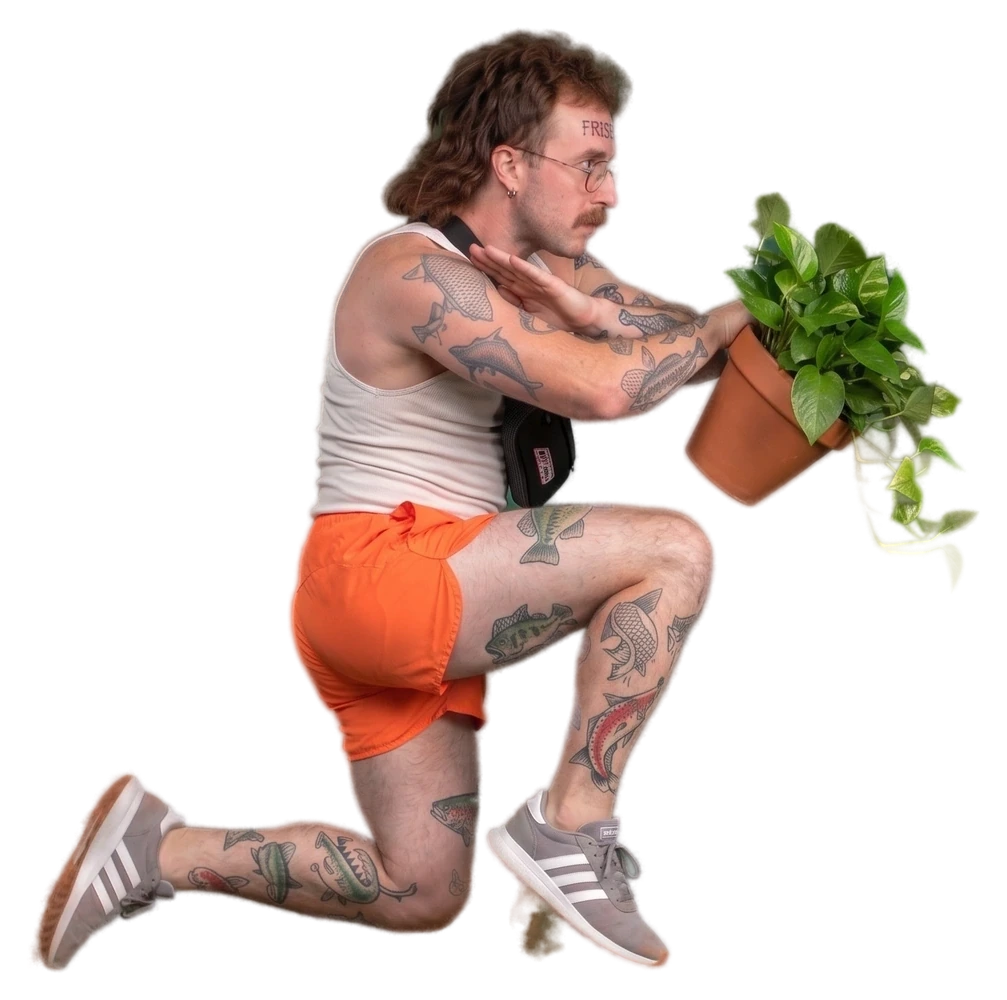
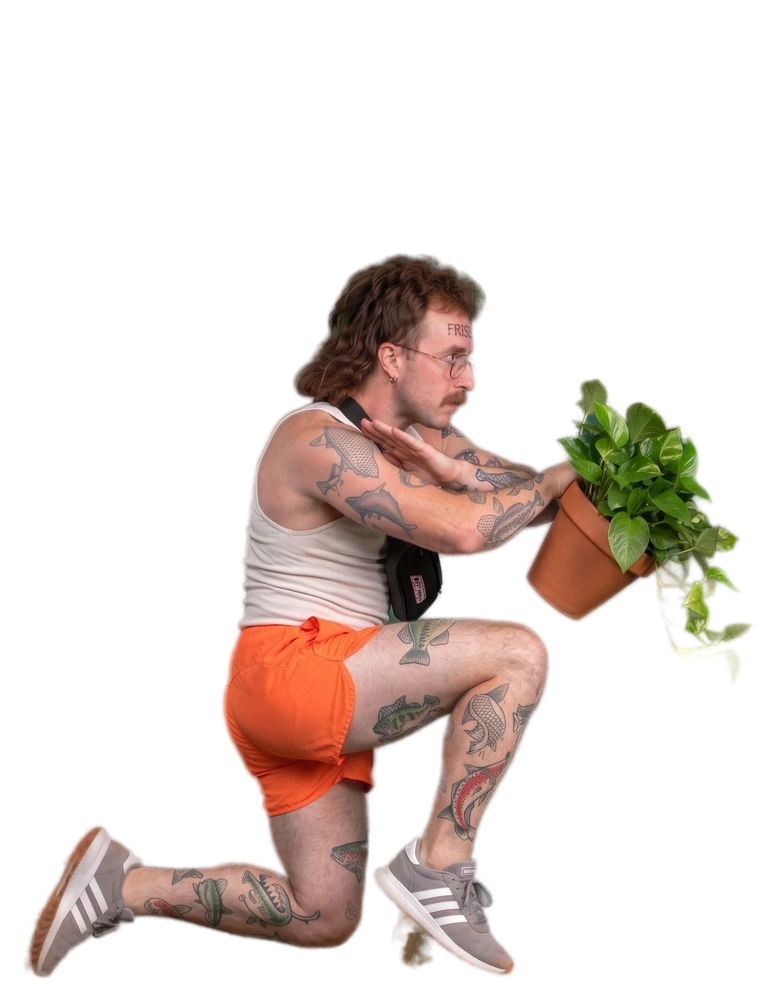
Pro-fight sprint: hit reactions, pace, controls, techno HUD, BIG batch, true scale
Team-wide quality sprint after director review:

- HIT REACTIONS (the core ask): EVERY landed hit now swaps the victim
  to their HURT pose with a red-hot flash (light 150ms / heavy 300ms /
  specials hold through stun) via one disciplined guard-aware restore -
  no stuck poses; light hits also flinch-lock the victim 140ms.
  FRISBEE reacts via class flash until a hurt photo is supplied.
- PACE: player basics wind up faster (195ms), recover faster (200ms),
  cooldown 185ms; landed basic opens a 250ms CANCEL window - a medium
  fired inside it skips its windup (real combo chaining, player only);
  dynamic combo clock (hit 1500ms / whiff 900ms).
- CONTROLS: double-tap forward = DASH (afterimage step; next lunge 76ms
  instead of 118); combo HUD now shows LIVE data-driven continuation
  hints with move names.
- TECHNO-TLV HUD: angular clipped health bars with 10% ticks and neon
  edges, angular portraits, chromatic damage numbers, RGB-split glitch
  frame on specials/finishers, scanlines on VS/KO, neon control pads.
- BIG BATCH: 6 new hi-res photos wired (flying kick for air moves,
  lunge for dash attacks, taunt for charge, guard2 for block, hikick +
  punch2 as combo frames); 1 street shot rejected below quality bar;
  b_lunge facing fixed via full-size canon check.
- TRUE SCALE standard: whole FRISBEE set reprocessed anchored to his
  stance - airborne/crouch poses no longer inflate to fill the canvas
  (jump body 668px vs fake 1000); r_jump padded to match; VS pair
[…]

diff --git a/index.html b/index.html
@@ -1153,6 +1153,26 @@ html,body{width:100%;height:100%;background:#000;overflow:hidden;font-family:'Ra
 .wpts{font-family:'Bebas Neue',sans-serif;font-size:clamp(20px,6vw,32px);letter-spacing:2px;color:var(--g);text-shadow:2px 2px 0 #000,0 0 16px rgba(245,197,24,.55);margin-top:clamp(4px,1.4vw,8px);min-height:1em;opacity:0;transform:scale(.7);transition:opacity .4s,transform .4s cubic-bezier(.2,.85,.3,1.4);}
 .wpts.on{opacity:1;transform:scale(1);}
 .wpts .wpx{display:block;font-family:'Heebo',system-ui,sans-serif;font-weight:700;font-size:clamp(9px,2.4vw,12px);letter-spacing:.5px;color:#cdb98a;text-shadow:0 1px 2px #000;margin-top:2px;}
+/* ── TECHNO-TLV (ניאון): sharp arcade layer — additive only, fighter keyframes untouched ── */
+.hpt{position:relative;clip-path:polygon(0 0,100% 0,calc(100% - 7px) 100%,7px 100%);}
+.hpt::after{content:"";position:absolute;inset:0;background:repeating-linear-gradient(90deg,transparent 0 calc(10% - 1px),rgba(0,0,0,.5) calc(10% - 1px) 10%);pointer-events:none;z-index:3;}
+.hs.L .hpt{box-shadow:0 0 9px rgba(0,255,225,.4),inset 0 0 4px rgba(0,255,225,.18);}
+.hs.R .hpt{box-shadow:0 0 9px rgba(255,45,85,.4),inset 0 0 4px rgba(255,45,85,.18);}
+.hs.L .ent{box-shadow:0 0 7px rgba(0,255,225,.3);}
+.hs.R .ent{box-shadow:0 0 7px rgba(255,45,85,.3);}
+.hpo{border:1px solid rgba(0,255,225,.35);clip-path:polygon(8% 0,100% 0,100% 92%,92% 100%,0 100%,0 8%);}
+.hs.R .hpo{border-color:rgba(255,45,85,.35);}
+.dmg{text-shadow:2px 0 0 rgba(255,0,90,.75),-2px 0 0 rgba(0,240,255,.75),0 2px 6px #000 !important;letter-spacing:1px;}
+@keyframes glxA{0%{transform:translate(0,0);filter:none;}25%{transform:translate(-3px,1px);filter:drop-shadow(3px 0 0 rgba(255,0,90,.6)) drop-shadow(-3px 0 0 rgba(0,240,255,.6));}60%{transform:translate(2px,-1px);filter:drop-shadow(-2px 0 0 rgba(255,0,90,.5)) drop-shadow(2px 0 0 rgba(0,240,255,.5));}100%{transform:translate(0,0);filter:none;}}
+.glx{animation:glxA .13s steps(3,end) 1;}
+#SVS::after,.wbg::after{content:"";position:absolute;inset:0;background:repeating-linear-gradient(0deg,transparent 0 3px,rgba(0,0,0,.11) 3px 4px);pointer-events:none;z-index:9;}
+.vhurt .fs img{animation:vhurtF .3s ease-out 1;}
+@keyframes vhurtF{0%{filter:brightness(2) saturate(2.2) drop-shadow(0 0 12px rgba(255,40,40,.85));}100%{filter:none;}}
+.dsh .fs img{filter:brightness(1.35) drop-shadow(-8px 0 6px rgba(0,240,255,.45));}
+.chud-mv .chb{display:inline-block;min-width:15px;text-align:center;margin:0 3px;padding:0 4px;border:1px solid rgba(0,255,225,.5);border-radius:3px;background:rgba(0,40,44,.7);color:#7dfff0;font-family:'Bebas Neue',sans-serif;}
+.chud-mv .chsep{opacity:.5;}
+.dbs,.fbs{border:1px solid rgba(0,255,225,.22)!important;box-shadow:inset 0 0 9px rgba(0,255,225,.10),0 2px 8px rgba(0,0,0,.55)!important;}
+.dC{border-color:rgba(255,45,85,.3)!important;}
 /* ── RETENTION SUITE: rank card, daily streak, achievements, rematch, kb hint ── */
 .prank,.wrank{margin:clamp(4px,1.2vw,7px) auto 0;width:min(86vw,340px);text-align:center;direction:rtl;font-family:'Heebo',system-ui,sans-serif;font-weight:800;font-size:var(--t5);color:#e8d9a8;text-shadow:0 1px 2px #000;}
 .wrank{width:min(80vw,300px);margin-bottom:clamp(6px,1.8vw,10px);color:#cdb98a;font-size:var(--t6);}
@@ -1503,7 +1523,7 @@ html,body{width:100%;height:100%;background:#000;overflow:hidden;font-family:'Ra
      b(BIG.COM): dedicated idle on NON-blue bg.  s(האייקון): full-body idle w/ legs
      (s_f), refreshed kick (s_kick).  y(ישר)/i(T.M.R)/r(השופט): a true finisher pose.
    ════════════════════════════════════════════════════════════════════════════ */
-const IM={b_s:"assets/img/b_s.jpg",b_f:"assets/img/b_f.webp",r_s:"assets/img/r_s.jpg",r_f:"assets/img/r_f.webp",i_s:"assets/img/i_s.jpg",i_f:"assets/img/i_f.webp",i_punch:"assets/img/i_punch.webp",i_kick:"assets/img/i_kick.webp",i_belt:"assets/img/i_belt.webp",b_kick:"assets/img/b_kick.webp",b_chair:"assets/img/b_chair.webp",r_kick:"assets/img/r_kick.webp",r_redcard:"assets/img/r_redcard.webp",y_s:"assets/img/y_s.jpg",y_f:"assets/img/y_f.webp",y_kick:"assets/img/y_kick.webp",y_jump:"assets/img/y_jump.webp",y_flex:"assets/img/y_flex.webp",y_fight:"assets/img/y_fight.webp",y_tire:"assets/img/y_tire.webp",s_s:"assets/img/s_s.jpg",s_f:"assets/img/s_f.webp",s_kick:"assets/img/s_kick.webp",s_cape:"assets/img/s_cape.webp",s_jump:"assets/img/s_jump.webp",i_run:"assets/img/i_run.webp",s_run:"assets/img/s_run.webp",y_run:"assets/img/y_run.webp",s_punch:"assets/img/s_punch.webp",s_smash:"assets/img/s_smash.webp",s_hook:"assets/img/s_hook.webp",r_punch:"assets/img/r_punch.webp",r_hurt:"assets/img/r_hurt.webp",b_run:"assets/img/b_run.webp",b_up:"assets/img/b_up.webp",b_jump:"assets/img/b_jump.webp",b_kk:"assets/img/b_kk.webp",b_punch:"assets/img/b_punch.webp",b_low:"assets/img/b_low.webp",i_jump:"assets/img/i_jump.webp",i_knee:"assets/img/i_knee.webp",i_lowk:"assets/img/i_lowk.webp",i_guard:"assets/img/i_guard.webp",i_point:"assets/img/i_point.webp",r_run:"assets/img/r_run.webp",r_ready:"assets/img/r_ready.webp",r_knee:"assets/img/r_knee.webp",r_spray:"assets/img/r_spray.webp",y_punch:"assets/img/y_punch.webp",y_hurt:"assets/img/y_hurt.webp",y_guard:"assets/img/y_guard.webp",b_hurt:"assets/img/b_hurt.webp",b_ready:"assets/img/b_ready.webp",s_hurt:"assets/img/s_hurt.webp",s_ready:"assets/img/s_ready.webp",s_air:"assets/img/s_air.webp",b_block:"assets/img/b_block.webp",b_jab:"assets/img/b_jab.webp",b_hook:"assets/img/b_hook.webp",r_blkH:"assets/img/r_blkH.webp",r_blkL:"assets/img/r_blkL.webp",f_s:"assets/img/f_s.jpg",f_f:"assets/img/f_f.webp",f_punch:"assets/img/f_punch.webp",f_palm:"assets/img/f_palm.webp",f_kick:"assets/img/f_kick.webp",f_fly:"assets/img/f_fly.webp",f_low:"assets/img/f_low.webp",f_claw:"assets/img/f_claw.webp",f_jump:"assets/img/f_jump.webp",f_knee:"assets/img/f_knee.webp",f_plantj:"assets/img/f_plantj.webp",f_plant:"assets/img/f_plant.webp",f_hero:"assets/img/f_hero.webp",
+const IM={b_s:"assets/img/b_s.jpg",b_f:"assets/img/b_f.webp",r_s:"assets/img/r_s.jpg",r_f:"assets/img/r_f.webp",i_s:"assets/img/i_s.jpg",i_f:"assets/img/i_f.webp",i_punch:"assets/img/i_punch.webp",i_kick:"assets/img/i_kick.webp",i_belt:"assets/img/i_belt.webp",b_kick:"assets/img/b_kick.webp",b_chair:"assets/img/b_chair.webp",r_kick:"assets/img/r_kick.webp",r_redcard:"assets/img/r_redcard.webp",y_s:"assets/img/y_s.jpg",y_f:"assets/img/y_f.webp",y_kick:"assets/img/y_kick.webp",y_jump:"assets/img/y_jump.webp",y_flex:"assets/img/y_flex.webp",y_fight:"assets/img/y_fight.webp",y_tire:"assets/img/y_tire.webp",s_s:"assets/img/s_s.jpg",s_f:"assets/img/s_f.webp",s_kick:"assets/img/s_kick.webp",s_cape:"assets/img/s_cape.webp",s_jump:"assets/img/s_jump.webp",i_run:"assets/img/i_run.webp",s_run:"assets/img/s_run.webp",y_run:"assets/img/y_run.webp",s_punch:"assets/img/s_punch.webp",s_smash:"assets/img/s_smash.webp",s_hook:"assets/img/s_hook.webp",r_punch:"assets/img/r_punch.webp",r_hurt:"assets/img/r_hurt.webp",b_run:"assets/img/b_run.webp",b_up:"assets/img/b_up.webp",b_jump:"assets/img/b_jump.webp",b_kk:"assets/img/b_kk.webp",b_punch:"assets/img/b_punch.webp",b_low:"assets/img/b_low.webp",i_jump:"assets/img/i_jump.webp",i_knee:"assets/img/i_knee.webp",i_lowk:"assets/img/i_lowk.webp",i_guard:"assets/img/i_guard.webp",i_point:"assets/img/i_point.webp",r_run:"assets/img/r_run.webp",r_ready:"assets/img/r_ready.webp",r_knee:"assets/img/r_knee.webp",r_spray:"assets/img/r_spray.webp",y_punch:"assets/img/y_punch.webp",y_hurt:"assets/img/y_hurt.webp",y_guard:"assets/img/y_guard.webp",b_hurt:"assets/img/b_hurt.webp",b_ready:"assets/img/b_ready.webp",s_hurt:"assets/img/s_hurt.webp",s_ready:"assets/img/s_ready.webp",s_air:"assets/img/s_air.webp",b_block:"assets/img/b_block.webp",b_jab:"assets/img/b_jab.webp",b_hook:"assets/img/b_hook.webp",r_blkH:"assets/img/r_blkH.webp",r_blkL:"assets/img/r_blkL.webp",f_s:"assets/img/f_s.jpg",f_f:"assets/img/f_f.webp",f_punch:"assets/img/f_punch.webp",f_palm:"assets/img/f_palm.webp",f_kick:"assets/img/f_kick.webp",f_fly:"assets/img/f_fly.webp",f_low:"assets/img/f_low.webp",f_claw:"assets/img/f_claw.webp",f_jump:"assets/img/f_jump.webp",f_knee:"assets/img/f_knee.webp",f_plantj:"assets/img/f_plantj.webp",f_plant:"assets/img/f_plant.webp",f_hero:"assets/img/f_hero.webp",b_guard2:"assets/img/b_guard2.webp",b_flyk:"assets/img/b_flyk.webp",b_hikick:"assets/img/b_hikick.webp",b_punch2:"assets/img/b_punch2.webp",b_lunge:"assets/img/b_lunge.webp",b_taunt:"assets/img/b_taunt.webp",
 /* ── v4 studio-photo poses (clean-bg cutouts) added to enrich battle animation ── */
 b_jab2:"assets/img/b_jab2.webp",b_kick2:"assets/img/b_kick2.webp",b_jump2:"assets/img/b_jump2.webp",b_run2:"assets/img/b_run2.webp",b_money:"assets/img/b_money.webp",
 r_idle2:"assets/img/r_idle2.webp",r_ready2:"assets/img/r_ready2.webp",r_kick2:"assets/img/r_kick2.webp",r_jump:"assets/img/r_jump.webp",r_hvy:"assets/img/r_hvy.webp",
@@ -1538,9 +1558,10 @@ MVR[10]={seq:["R","S","T","X"],e:60,d:[26,36],ac:"redcard",cat:"special",redcard
 // ── T.M.R (champ): clone of the 12, own names ──
 const MVI=MVB.map(m=>({...m}));
 ["BELT BASH","CHAMP KICK","CHAMP SLAM","CHAMP HEAD","BELT DASH","CHAMP RUSH","AIR BELT","LOW SWEEP","BODY SLAM","⚡ BELT COMBO","⚡ CHAMP KO","⚡ CHAMP POWER"].forEach((nm,i)=>MVI[i].n=nm);
-const BSP={"jab":"b_jab","str":"b_hook","bb":"b_punch","upc":"b_up","flx":"b_money","kick":"b_kk","sw":"b_low","xsh":"b_kick","rsh":"b_run","tkx":"b_run","c12":"b_run","charge":"b_run","jjb":"b_jump","jkk":"b_jump","jsm":"b_jump","sjp":"b_jump","hvy":"b_chair","fin":"b_chair","dco":"b_chair","est":"b_chair","blk":"b_block"};
+// v5.6: new hi-res batch wired — flying kick for air moves, lunge for dashes, taunt for charge, guard2 for block
+const BSP={"jab":"b_jab","str":"b_punch2","bb":"b_punch","upc":"b_up","flx":"b_money","kick":"b_kk","sw":"b_low","xsh":"b_hikick","rsh":"b_run","tkx":"b_run","c12":"b_lunge","charge":"b_taunt","jjb":"b_flyk","jkk":"b_flyk","jsm":"b_flyk","sjp":"b_jump","hvy":"b_chair","fin":"b_chair","dco":"b_chair","est":"b_chair","blk":"b_guard2"};
 // FR = true frame sequences per action (array of IM pose keys played as frames during the strike). Optional; falls back to the single sp[ac] pose when absent.
-const FRB={"jab":["b_jab","b_jab2","b_punch"],"str":["b_jab","b_hook"],"hvy":["b_up","b_chair"],"kick":["b_kk","b_kick2"],"bb":["b_punch","b_jab2"],"rsh":["b_run","b_run2"],"jsm":["b_jump","b_jump2"],"dco":["b_money","b_chair","b_punch"],"fin":["b_chair","b_money"]}; // BIG.COM: 1-2 combos chained from existing + new studio poses
+const FRB={"jab":["b_jab","b_jab2","b_punch"],"str":["b_punch2","b_hook"],"hvy":["b_up","b_chair"],"kick":["b_kk","b_hikick"],"bb":["b_punch","b_jab2"],"rsh":["b_run","b_lunge"],"c12":["b_run","b_lunge"],"jsm":["b_flyk","b_jump2"],"dco":["b_money","b_chair","b_punch"],"fin":["b_chair","b_money"]}; // BIG.COM frames — v5.6 hi-res batch woven in
 const RSP={"jab":"r_punch","str":"r_punch","hvy":"r_hvy","bb":"r_punch","upc":"r_knee","kick":"r_kick","sw":"r_kick","flx":"r_spray","jjb":"r_jump","jkk":"r_jump","jsm":"r_jump","sjp":"r_jump","rsh":"r_run","tkx":"r_run","c12":"r_run","dco":"r_spray","redcard":"r_redcard","fin":"r_redcard","est":"r_redcard","charge":"r_ready2","blk":"r_ready2"};
 const ISP={"jab":"i_punch","str":"i_punch","hvy":"i_punch","bb":"i_punch","upc":"i_knee","flx":"i_mic","jjb":"i_jump","jkk":"i_jump","jsm":"i_jump","sjp":"i_jump","kick":"i_kick","sw":"i_lowk","rsh":"i_run","tkx":"i_run","c12":"i_run","charge":"i_point","dco":"i_belt","fin":"i_belt","est":"i_belt","blk":"i_guard"};
 const VD={b:"assets/video/vd_b.mp4",r:"assets/video/vd_r.mp4",i:"assets/video/vd_i.mp4",y:"assets/video/vd_y.mp4",s:"assets/video/vd_s.mp4",f:"assets/video/vd_f.mp4"};
@@ -1579,7 +1600,24 @@ const FRY={"jab":["y_punch","y_ready2","y_kick"],"str":["y_kick","y_punch"],"hvy
 const FRS={"jab":["s_punch","s_hook"],"str":["s_punch","s_smash"],"hvy":["s_smash","s_hook"],"bb":["s_punch","s_hook"],"kick":["s_kick","s_kick2"],"rsh":["s_run","s_run2"],"fin":["s_cape2","s_robe","s_smash"],"est":["s_cape2","s_smash"]};
 
 // HURT poses — shown briefly on the receiver during a heavy hit (only chars that have one)
-const HURT={r:"r_hurt",y:"y_hurt",b:"b_hurt",s:"s_hurt",i:"i_hurt"};
+const HURT={r:"r_hurt",y:"y_hurt",b:"b_hurt",s:"s_hurt",i:"i_hurt"};   // f has no hurt photo yet → class-only reaction (ask Lior for one)
+// ── HIT REACTION (פולס): EVERY landed hit swaps the victim to their HURT pose + red-hot
+// flash, with ONE disciplined guard-aware restore per victim (no stuck poses).
+let hurtT1=null,hurtT2=null;
+function hitReact(vP1,weight){
+  const vic=vP1?P1:P2, el=document.getElementById(vP1?'FI1':'FI2'), wrap=document.getElementById(vP1?'F1':'F2');
+  if(!vic||!el)return;
+  const hk=HURT[vic.id];
+  if(hk&&IM[hk])el.src=IM[hk];
+  if(wrap){wrap.classList.remove('vhurt');void wrap.offsetWidth;wrap.classList.add('vhurt');}
+  clearTimeout(vP1?hurtT1:hurtT2);
+  const t=setTimeout(()=>{
+    if(wrap)wrap.classList.remove('vhurt');
+    if(vP1&&guard1){const gk=guard1==='H'?GUARD_HI[P1.id]:GUARD_LOW[P1.id];if(gk&&IM[gk]){el.src=IM[gk];return;}}
+    rstSp(vP1);
+  },weight==='light'?150:300);
+  if(vP1)hurtT1=t;else hurtT2=t;
+}
 
 const V_REF_WIN="assets/video/ref_win.mp4";
 // ── ISHAR-vs-ICON CINEMATIC ULTIMATE ─────────────────────────────────────────
@@ -2239,6 +2277,8 @@ let tState='p1',cBuf=[],cTimer=null;
 // ── REAL-TIME ── per-fighter recovery flags replace the old global turn-lock; no "whose turn".
 let busy1=false,busy2=false,block2=null,block2T=null,cpuTick=null,suddenDeath=false;
 const CTIMEOUT=1200;
+// פריים: dynamic combo clock — landing a hit stretches it (chain-friendly), whiffing shrinks it (anti-spam)
+let ctNow=CTIMEOUT,cancelT=0,dashUntil=0,lastRTap=0;
 function CPU_PACE(){return Math.round(1750/(1+0.12*Math.min(diffLvl,DIFF_MAX)));}  // AI cadence — slowed for a readable pace; still faster at higher difficulty
 function startCpuTick(){clearInterval(cpuTick);if(!gameEnded)cpuTick=setInterval(cpuStep,CPU_PACE());}
 function stopCpuTick(){clearInterval(cpuTick);cpuTick=null;}
@@ -2542,7 +2582,7 @@ function flashBtn(btn){const el=document.getElementById(FL_ID[btn]);if(el){el.cl
 // GUARD_*_FB = graceful fallback to the existing poses until the real photos land — see setGuard onerror.
 // r has REAL dedicated block photos; b/i/y/s point at their best existing art until
 // the user supplies {id}_blkH/{id}_blkL photos (then: add IM keys + repoint here).
-const GUARD_HI={b:'b_block',i:'i_guard',r:'r_blkH',y:'y_guard',s:'s_ready',f:'f_f'};
+const GUARD_HI={b:'b_guard2',i:'i_guard',r:'r_blkH',y:'y_guard',s:'s_ready',f:'f_f'};
 const GUARD_LOW={b:'b_low',i:'i_lowk',r:'r_blkL',y:'y_kick',s:'s_kick',f:'f_low'};
 const GUARD_HI_FB={b:'b_block',i:'i_guard',r:'r_ready',y:'y_guard',s:'s_ready',f:'f_f'};
 const GUARD_LOW_FB={b:'b_low',i:'i_lowk',r:'r_kick',y:'y_kick',s:'s_kick'};
@@ -2585,7 +2625,7 @@ function pushBuf(tok){
   const exact=P1.mv.find(m=>seqEq(m.seq,cBuf));
   const longer=P1.mv.some(m=>seqSW(m.seq,cBuf)&&m.seq.length>cBuf.length);
   if(exact&&!longer){const mv=exact;cBuf=[];hideChud();execMove(mv,true);return;}
-  if(exact||longer){updChud();cTimer=setTimeout(fireCombo,CTIMEOUT);return;}
+  if(exact||longer){updChud();cTimer=setTimeout(fireCombo,ctNow);return;}
   fireCombo();   // no path forward — commit the best prefix immediately
 }
 // DIRECTION press/release (bound from pointer + keyboard).
@@ -2594,7 +2634,12 @@ function dirDown(dir){
   flashBtn(dir);
   if(dir==='U'){doJump();return;}
   if(dir==='L'){setGuard('H');return;}
-  if(dir==='R'){pushBuf('R');return;}
+  if(dir==='R'){
+    const _n=Date.now();                                  // גריפ: double-tap ► = dash (closes distance, next lunge is faster)
+    if(_n-lastRTap<260&&!busy1&&!air1){lastRTap=0;doDash();return;}
+    lastRTap=_n;
+    pushBuf('R');return;
+  }
   if(dir==='D'){
     dHeld=true;
     pushBuf('D');                       // tap path (▼▼▼ charge, ▼+button low mediums)
@@ -2627,9 +2672,10 @@ function updChud(){
   if(mvEl){
     if(exact&&longer){mvEl.textContent=exact.n+' — or add more';mvEl.className='chud-mv ready';}
     else if(exact){mvEl.textContent='⚡ '+exact.n;mvEl.className='chud-mv ready';}
-    else{const nxt=[...new Set(P1.mv.filter(m=>seqSW(m.seq,cBuf)&&m.seq.length>cBuf.length).map(m=>m.seq[cBuf.length]))];mvEl.textContent='next: '+nxt.map(b=>KEY_LBL[b]||b).join(' / ');mvEl.className='chud-mv';}
+    else{const conts=P1.mv.filter(m=>seqSW(m.seq,cBuf)&&m.seq.length>cBuf.length).slice(0,3);   // גריפ: LIVE combo hints — actual continuations with move names
+      mvEl.innerHTML=conts.map(m=>'<b class="chb">'+(KEY_LBL[m.seq[cBuf.length]]||m.seq[cBuf.length])+'</b>'+m.n).join('<span class="chsep"> · </span>');mvEl.className='chud-mv';}
   }
-  if(fill){fill.classList.remove('running');fill.style.setProperty('--cd',CTIMEOUT+'ms');void fill.offsetWidth;fill.classList.add('running');}
+  if(fill){fill.classList.remove('running');fill.style.setProperty('--cd',ctNow+'ms');void fill.offsetWidth;fill.classList.add('running');}
   el.classList.add('on');
 }
 function hideChud(){const el=document.getElementById('CHUD');if(el)el.classList.remove('on');const f=document.getElementById('CHUD_FILL');if(f)f.classList.remove('running');}
@@ -2638,6 +2684,16 @@ function fireCombo(){
   let mv=null;for(let l=cBuf.length;l>=1;l--){mv=P1.mv.find(m=>seqEq(m.seq,cBuf.slice(0,l)));if(mv)break;}
   cBuf=[];
   if(mv)execMove(mv,true);
+}
+// גריפ: dash — quick forward step; for 1.5s the next attack's lunge is much faster (distance-closer)
+function doDash(){
+  if(busy1||mlOpen)return;
+  dashUntil=Date.now()+1500;
+  const f=document.getElementById('F1');
+  if(f){f.classList.add('dsh');setTimeout(()=>f.classList.remove('dsh'),260);}
+  try{spawnAfterimage('F1',fGlow(true),2);}catch(e){}
+  moveF('F1',X1,X1+8,110,'out').then(()=>moveF('F1',X1+8,X1,150,'out'));
+  sfx('W',.5);vib(6);ann('⚡ DASH');
 }
 function seqEq(a,b){return a.length===b.length&&a.every((v,i)=>v===b[i]);}
 function seqSW(sq,pre){return pre.length<=sq.length&&pre.every((v,i)=>v===sq[i]);}
@@ -2858,7 +2914,10 @@ async function execMove(mv,isP1){
   // = LOW (block by holding ▼/crouch). Wind-up hold doubles as the telegraph + reaction
   // window (longer for bigger moves → clearer anticipation, slower readable pace).
   const ht=isJump?'H':isLow?'L':(LOWAC[mv.ac]?'L':'H');
-  await sl(mv.fin?460:mv.e>=20?320:isLow?260:230);
+  // פריים: cancel window — a landed basic lets a MEDIUM skip its windup (real combo chaining, player only)
+  const _cxl=isP1&&mv.cat==='medium'&&Date.now()<cancelT;
+  if(_cxl)cancelT=0;
+  await sl(_cxl?40:(mv.fin?460:mv.e>=20?320:isLow?260:mv.cat==='basic'?195:230));
   let defRes='hit';
   if(!isP1){
     if(guard1===ht)defRes='block';        // correct height held → blocked
@@ -2873,7 +2932,7 @@ async function execMove(mv,isP1){
   else{swSp(isP1,mv.ac);}
   // Explosive lunge: accelerate INTO the target so the blow connects at max speed
   spawnAfterimage(fId,fGlow(isP1),mv.fin?6:mv.e>=20?4:3);   // colored motion trail; bigger moves dash with a longer trail
-  await moveF(fId,hx,cx,isJump?250:118,isJump?null:'in');
+  await moveF(fId,hx,cx,isJump?250:(isP1&&Date.now()<dashUntil?76:118),isJump?null:'in');   // dash-primed player closes in noticeably faster
   await sl(mv.fin?62:26);
   // STRIKE: play a real multi-frame sequence if this move defines one (true frame animation), else a single strike pose.
   const _fr=(myC.fr&&myC.fr[mv.ac]&&myC.fr[mv.ac].every(k=>IM[k]))?myC.fr[mv.ac]:null;
@@ -2936,9 +2995,13 @@ async function execMove(mv,isP1){
     sfx(SFXM[mv.ac]||'P',mv.fin?.94:.75);
     trigA(tFsId,_w==='light'?'hit':'hith'); // heavy/finisher/special hits get a stronger recoil
     squash(tFId,_w!=='light');              // target squashes on impact (squash & stretch)
-    {const tP1=!isP1,hk=HURT[(tP1?P1:P2).id];if(hk&&IM[hk]&&_w!=='light')document.getElementById(tP1?'FI1':'FI2').src=IM[hk];} // swap to a HURT pose on heavy/special hits (if the char has one)
+    hitReact(!isP1,_w);                     // פולס: EVERY hit gets a hurt-pose reaction (light 150ms / heavy 300ms), restore handled inside
+    {const vBusy=isP1?busy2:busy1;          // flinch: a clean light hit briefly locks the victim (only if they weren't already acting)
+      if(_w==='light'&&!vBusy){if(isP1){busy2=true;setTimeout(()=>freeF(false),140);}else{busy1=true;setTimeout(()=>freeF(true),140);}}}
+    if(isP1){ctNow=1500;if(mv.cat==='basic')cancelT=Date.now()+250;}   // פריים: landed basic opens a 250ms cancel window; hits stretch the combo clock
     shake(isSpecial?'hvy':_w);
     if(_w!=='light')camPunch(mv.fin||isSpecial);   // Tekken zoom-punch on heavy / special / finisher
+    if(mv.fin||isSpecial){const _ar=document.getElementById('AR');if(_ar){_ar.classList.remove('glx');void _ar.offsetWidth;_ar.classList.add('glx');setTimeout(()=>_ar.classList.remove('glx'),150);}}   // ניאון: RGB-split glitch frame
     vib(mv.fin?[0,30,45,65]:isSpecial?[0,22,30,40]:mv.e>=20?28:14);
     hitStop(mv.fin?180:isSpecial?100:mv.e>=20?55:30);   // bigger freeze on special → reads the impact
     flashH(mv.fin||isSpecial);
@@ -2958,6 +3021,7 @@ async function execMove(mv,isP1){
       stunMs=mv.fin?900:650;
       if(isP1){busy2=true;}else{busy1=true;}        // victim can't act (CPU tick early-returns on busy2; player input gated on busy1)
       const vP1=!isP1, vHk=HURT[(vP1?P1:P2).id], vEl=document.getElementById(vP1?'FI1':'FI2');
+      clearTimeout(vP1?hurtT1:hurtT2);               // the special's stun-hold owns the pose — cancel the short hitReact restore
       if(vHk&&IM[vHk]&&vEl)vEl.src=IM[vHk];          // hold the HURT pose through the stun
       setTimeout(()=>{freeF(!isP1);rstSp(!isP1);if(!isP1&&guard1){const gk=guard1==='H'?GUARD_HI[P1.id]:GUARD_LOW[P1.id];if(gk&&IM[gk])document.getElementById('FI1').src=IM[gk];}},stunMs);
     }
@@ -2965,7 +3029,7 @@ async function execMove(mv,isP1){
   ann(mv.n);
   updH();
 
-  await sl(stunMs||(mv.fin?440:230));   // specials hold the attacker for the full victim hit-stun; others get a slightly slower readable recovery
+  await sl(stunMs||(mv.fin?440:isP1?200:230));   // specials hold the attacker for the full victim hit-stun; player recovers a touch faster (responsive feel)
   rcA(fs);fs.classList.add('rv');
   if(_w!=='light')smear(fId,false);          // follow-through: motion-smear the attacker as it pulls back out
   await moveF(fId,cx,hx,150,'out');
@@ -2988,7 +3052,8 @@ async function execMove(mv,isP1){
     endG(koP1?P2:P1,!koP1);return; // winner = the standing fighter; player wins unless P1 is down
   }
 
-  await sl(mv.fin?230:isP1?210:290);   // post-move cooldown — CPU waits a touch longer so it can't chain-spam
+  await sl(mv.fin?230:isP1?185:290);   // post-move cooldown — player snappier, CPU waits longer so it can't chain-spam
+  if(isP1&&dmg<=0)ctNow=900;           // פריים: whiffed/blocked player move shrinks the combo clock (anti-spam)
   freeF(isP1);
 }
 
